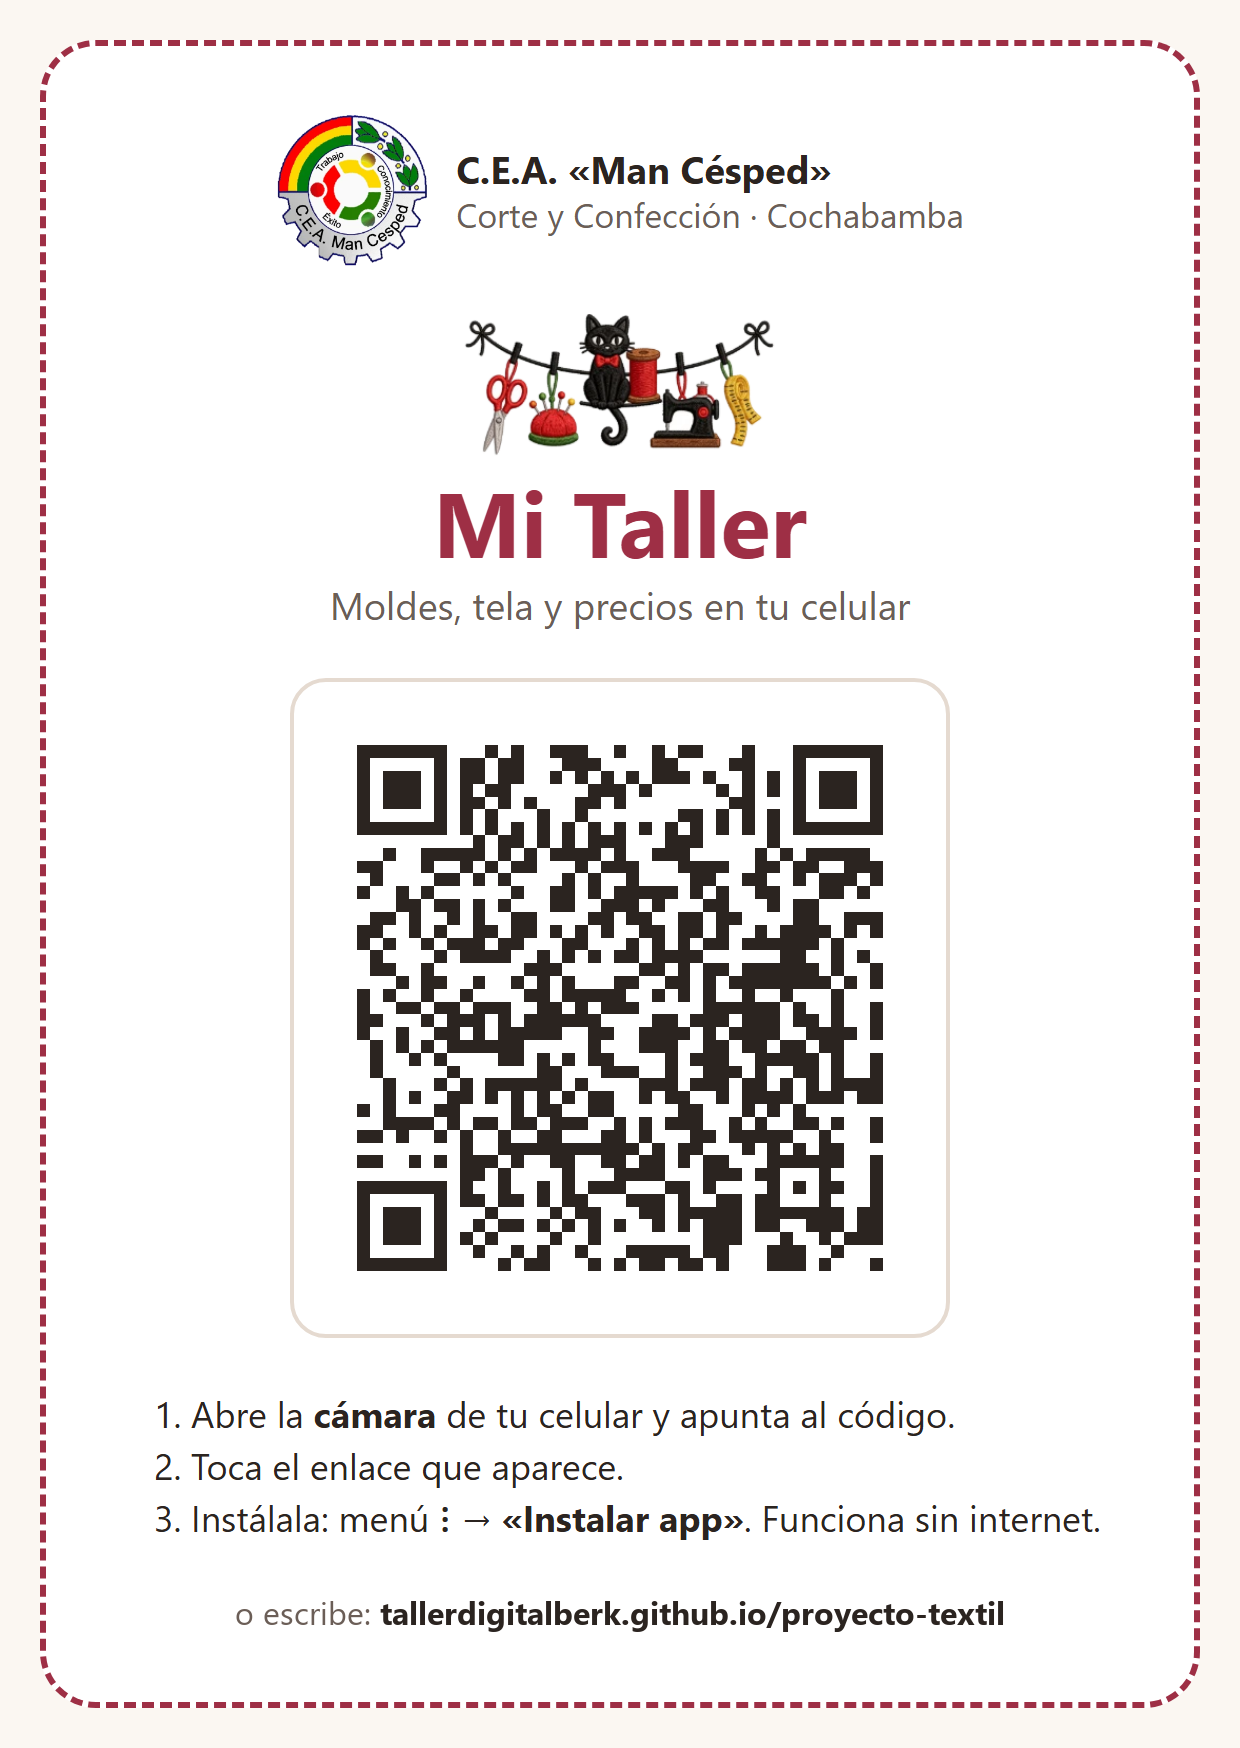
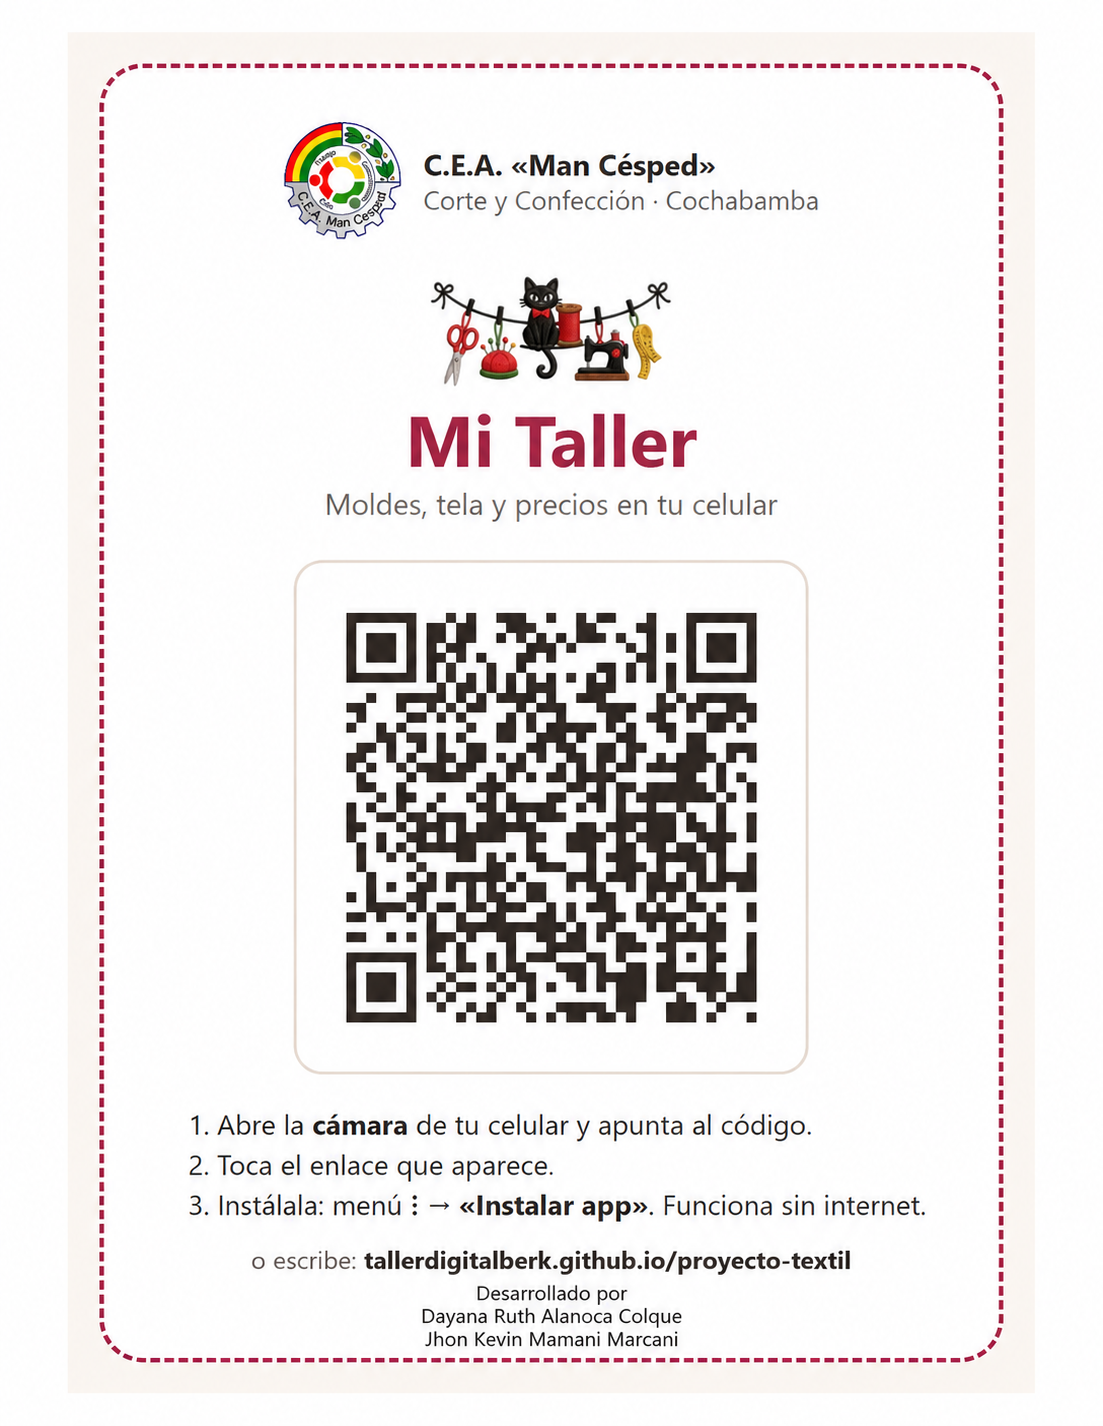
Agrega autores del proyecto y tarjeta QR en tamaño carta

diff --git a/aplicativo/js/pantallas/ayuda.js b/aplicativo/js/pantallas/ayuda.js
@@ -89,8 +89,10 @@ export function mostrar(main) {
       </section>`).join('')}
     <button type="button" class="btn btn-secundario btn-ancho" id="ver-bienvenida">👋 Ver la bienvenida otra vez</button>
     <section class="acerca">
+      <h2>Acerca del proyecto</h2>
       <img class="logo-cea" src="img/logo-cea.webp" alt="Logo del C.E.A. Man Césped" width="72" height="72">
       <p><b>Mi Taller</b> · versión 1.0</p>
+      <p><b>Desarrollado por</b><br>Dayana Ruth Alanoca Colque<br>Jhon Kevin Mamani Marcani</p>
       <p>Proyecto Integrador de Sistemas Informáticos para el área de Corte y Confección del CEA «Man Césped», Cochabamba, 2026.</p>
       <p>Las fórmulas de los moldes y las tablas de tallas son provisionales, hasta su revisión con el docente del taller.</p>
     </section>`;

diff --git a/aplicativo/sw.js b/aplicativo/sw.js
@@ -3,7 +3,7 @@
 // actualizar la app nunca borra los datos de la persona.
 
 // ⚠ Cambiar VERSION cada vez que se publique un cambio (así el celular se actualiza)
-const VERSION = 'mi-taller-v64';
+const VERSION = 'mi-taller-v65';
 
 const ARCHIVOS = [
   './',
